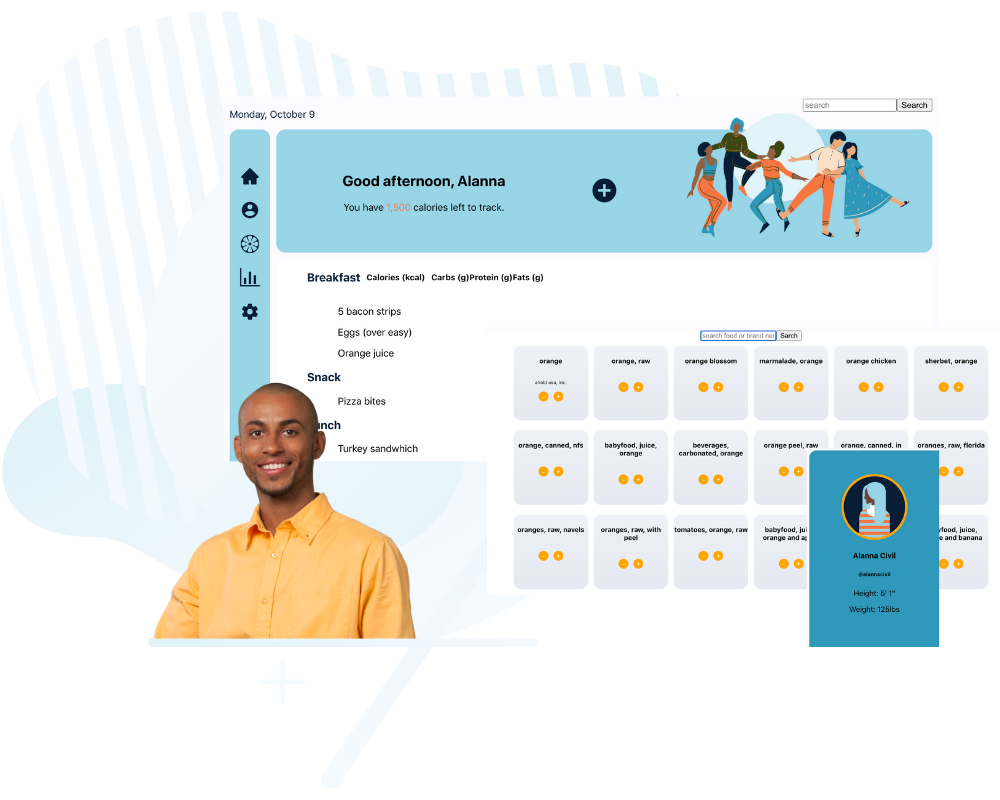
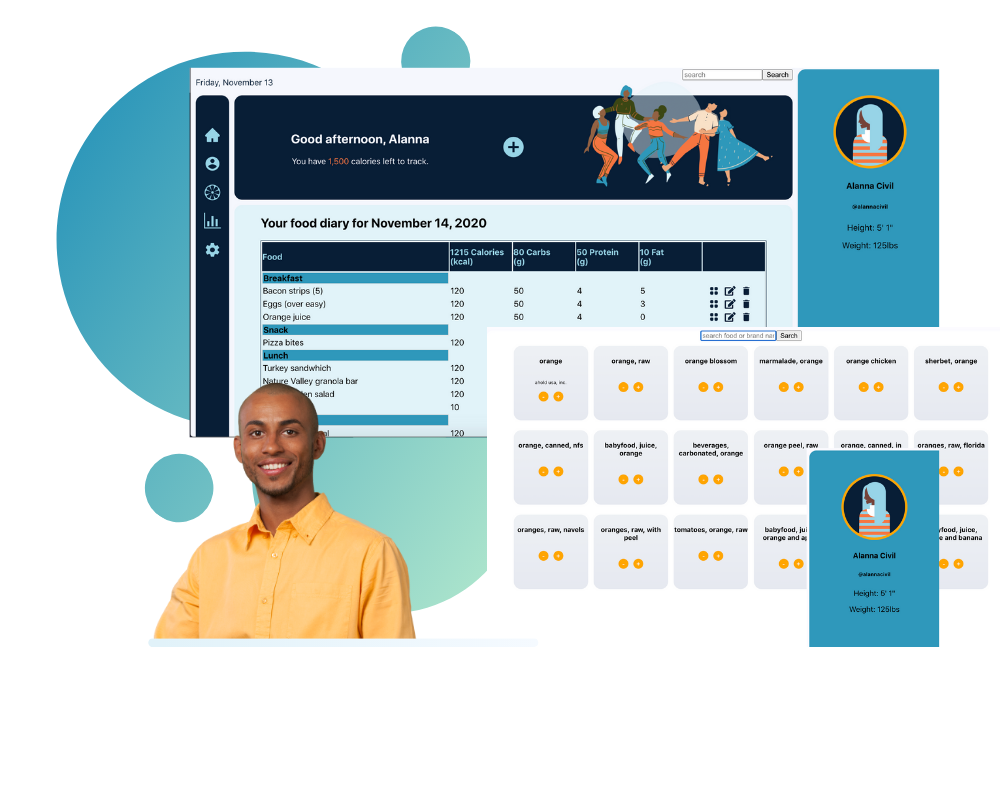
update dashboard design

diff --git a/fit-trackr/src/components/UserAccount/Dashboard.js b/fit-trackr/src/components/UserAccount/Dashboard.js
@@ -1,8 +1,10 @@
 import React from 'react';
+import { FaEdit } from 'react-icons/fa'
 import { AiFillHome } from 'react-icons/ai';
 import { IoMdSettings, IoMdAddCircle } from 'react-icons/io';
-import { MdAccountCircle } from 'react-icons/md';
+import { MdAccountCircle, MdDelete } from 'react-icons/md';
 import { GiOrange } from 'react-icons/gi';
+import { HiViewGrid } from 'react-icons/hi';
 import { GoGraph } from 'react-icons/go';
 import { Link } from "react-router-dom";
 //images
@@ -23,7 +25,7 @@ const Dashboard = () => {
      const blue = '#2F98BA';
      const darkblue = '#081E36';
      const white = '#FFFFFF';
-     const lightgray = '#FCFBFF';
+     const lightgray = '#F4F7FC';
      const gray = 'gray';
      const orange = '#F77741';
      const offwhite = '#FCFAFE';
@@ -37,6 +39,11 @@ const Dashboard = () => {
         lineHeight: '1.6rem'
      }
 
+     const editBtn = {
+        color: darkblue, 
+        width: '1.3rem',
+        paddingLeft: '10px'
+     }
      //hover link effects
      function hover() {
 
@@ -48,7 +55,7 @@ const Dashboard = () => {
             <div style={{width: '80%'}}>
                 <div className="status" style={{display: 'flex', justifyContent: 'space-between'}}>
                     <div>
-                        <p style={heading}>Monday, October 9</p>
+                        <p style={heading}>Friday, November 13</p>
                     </div>
                     <div className="search">
                         <form onSubmit={Database}>
@@ -64,41 +71,41 @@ const Dashboard = () => {
                 </div>
                 <div style={{display: 'flex'}}>
                     
-                    <div style={{width: '90px', height: '100vh', paddingTop: '50px', borderRadius: '15px', backgroundColor: skyblue}}>
+                    <div style={{width: '90px', paddingTop: '50px', borderRadius: '15px', backgroundColor: darkblue}}>
                         {/* <div style={{padding: '10px 0'}}>
                             <img src={logo} alt="logo" style={{width: '50px'}}/>
                         </div> */}
                         <div style={{padding: '10px 0'}}>
-                        <Link to='/dashboard'><AiFillHome style={{color: darkblue, width: '2rem'}} size/></Link>
+                        <Link to='/dashboard'><AiFillHome style={{color: skyblue, width: '2rem'}} size/></Link>
                         </div>
                         <div style={{padding: '10px 0'}}>
-                            <MdAccountCircle style={{color: darkblue, width: '2rem'}} size/>
+                            <MdAccountCircle style={{color: skyblue, width: '2rem'}} size/>
                         </div>
                         <div style={{padding: '10px 0'}}>
-                            <Link to='/search'><GiOrange style={{color: darkblue, width: '2rem'}} size/></Link>
+                            <Link to='/search'><GiOrange style={{color: skyblue, width: '2rem'}} size/></Link>
                         </div>
                         <div style={{padding: '10px 0'}}>
-                            <GoGraph style={{color: darkblue, width: '2rem'}} size/>
+                            <GoGraph style={{color: skyblue, width: '2rem'}} size/>
                         </div>
 
                         <div style={{padding: '10px 0'}}>
-                            <IoMdSettings style={{color: darkblue, width: '2rem'}} size/>
+                            <IoMdSettings style={{color: skyblue, width: '2rem'}} size/>
                         </div>
                         
                     </div>
 
 
                     <div>
-                        <div className="welcome" style={{display: 'flex', backgroundColor: skyblue, marginLeft: '10px', borderRadius: '15px', height: '200px', width: '1068px'}}>
+                        <div className="welcome" style={{display: 'flex', backgroundColor: darkblue, marginLeft: '10px', borderRadius: '15px', height: '200px', width: '1068px'}}>
                             <div style={{width: '45%', display: 'grid', placeItems: 'center'}}>
                                 <div>
-                                    <h2>Good afternoon, Alanna</h2>
-                                    <p>You have <span style={{color: orange}}>1,500</span> calories left to track.</p>
+                                    <h2 style={{color: lightgray}}>Good afternoon, Alanna</h2>
+                                    <p style={{color: lightgray}}>You have <span style={{color: orange}}>1,500</span> calories left to track.</p>
                                 </div> 
                             </div>
                             <div style={{width: '10%', display: 'grid', placeItems: 'center'}}>
                                 <div>
-                                    <IoMdAddCircle style={{color: darkblue, width: '3rem'}} size/>
+                                    <IoMdAddCircle style={{color: skyblue, width: '3rem'}} size/>
                                     {/* <p>Add Meal</p> */}
                                 </div>
                                 
@@ -107,80 +114,188 @@ const Dashboard = () => {
                                 <img src={hero} alt='' style={{width: '450px', fontWeight: '900', position: 'relative', top: '-50px'}}/>
                             </div>
                         </div>
-                        <div style={{display: 'flex', backgroundColor: white, marginLeft: '10px', marginTop: '10px', borderRadius: '15px', height: '80vh', width: '1068px'}}>
-                            <div style={{textAlign: 'left', padding: '0 50px'}}>
-                                {/* <div className="tg-wrap">
-                                    <table className="tg" style={{display: 'flex'}}>
-                                        <thead>
-                                            <tr>
-                                                <th className="tg-ul38">Pizza bites</th>
-                                            </tr>
-                                        </thead>
-                                        <thead>Calories (kcal)
-                                            <tr>
-                                                <th className="tg-ul38">123</th>
-                                            </tr>
-                                        </thead>
-                                        <thead>Carbs (g)
-                                            <tr>
-                                                <th className="tg-ul38">123</th>
-                                            </tr>
-                                        </thead>
-                                        <thead>Protein(g)
-                                            <tr>
-                                                <th className="tg-ul38">123</th>
-                                            </tr>
-                                        </thead>
-                                        <thead>Fat(g)
-                                            <tr>
-                                                <th className="tg-ul38">123</th>
-                                            </tr>
-                                        </thead>
+                        <div style={{display: 'flex', backgroundColor: lightblue, marginLeft: '10px', marginTop: '10px', borderRadius: '15px', maxWidth: '1068px'}}>
+                            <div style={{textAlign: 'left', padding: '0 50px', width: '100%'}}>
+                                
+                                <div>
+                                    <h2>Your food diary for November 14, 2020</h2>
+                                    <table className="table" style={{border: '1px solid #081E36'}}>
+                                    <tbody style={{width: '100%' }}>
+                                            <tr style={{backgroundColor: darkblue}}>
+                                                <th style={{width: '30%', color: skyblue, padding: '10px 0'}}>Food</th>
+                                                <th style={{width: '10%', color: skyblue, padding: '10px 0'}}>1215 Calories<br/>(kcal)</th>
+                                                <th style={{width: '10%', color: skyblue, padding: '10px 0'}}>80 Carbs<br/>(g)</th>
+                                                <th style={{width: '10%', color: skyblue, padding: '10px 0'}}>50 Protein<br/>(g)</th>
+                                                <th style={{width: '10%', color: skyblue, padding: '10px 0'}}>10 Fat<br/>(g)</th>
+                                                <th style={{width: '10%', color: skyblue, padding: '10px 0'}}></th>
+                                            </tr>                                        
+                                        <tr>
+                                            <th style={{backgroundColor: blue, position: 'sticky', border: '1px solid #ddd'}}>Breakfast</th>
+                                        </tr>
+                                        <tr>
+                                            <td>Bacon strips (5)</td>
+                                            <td>120</td>
+                                            <td>50</td>
+                                            <td>4</td>
+                                            <td>5</td>
+                                            <td style={{display: 'flex'}}>
+                                                <HiViewGrid style={editBtn} size/>
+                                                <FaEdit style={editBtn} size/>
+                                                <MdDelete style={editBtn} size/>
+                                            </td>
+                                            
+                                        </tr>
+                                        <tr>
+                                            <td>Eggs (over easy)</td>
+                                            <td>120</td>
+                                            <td>50</td>
+                                            <td>4</td>
+                                            <td>3</td>
+                                            <td style={{display: 'flex'}}>
+                                                <HiViewGrid style={editBtn} size/>
+                                                <FaEdit style={editBtn} size/>
+                                                <MdDelete style={editBtn} size/>
+                                            </td>
+                                        </tr>
+                                        <tr>
+                                            <td>Orange juice</td>
+                                            <td>120</td>
+                                            <td>50</td>
+                                            <td>4</td>
+                                            <td>0</td>
+                                            <td style={{display: 'flex'}}>
+                                                <HiViewGrid style={editBtn} size/>
+                                                <FaEdit style={editBtn} size/>
+                                                <MdDelete style={editBtn} size/>
+                                            </td>
+                                        </tr>
+
+                                        <tr>
+                                            <th style={{backgroundColor: blue, border: '1px solid #ddd'}}>Snack</th>
+                                        </tr>
+                                        <tr>
+                                            <td>Pizza bites</td>
+                                            <td>120</td>
+                                            <td>50</td>
+                                            <td>4</td>
+                                            <td>0</td>
+                                            <td style={{display: 'flex'}}>
+                                                <HiViewGrid style={editBtn} size/>
+                                                <FaEdit style={editBtn} size/>
+                                                <MdDelete style={editBtn} size/>
+                                            </td>
+                                        </tr>
+                                        <tr>
+                                            <th style={{backgroundColor: blue, border: '1px solid #ddd'}}>Lunch</th>
+                                        </tr>
+                                        <tr>
+                                            <td>Turkey sandwhich</td>
+                                            <td>120</td>
+                                            <td>50</td>
+                                            <td>4</td>
+                                            <td>2</td>
+                                            <td style={{display: 'flex'}}>
+                                                <HiViewGrid style={editBtn} size/>
+                                                <FaEdit style={editBtn} size/>
+                                                <MdDelete style={editBtn} size/>
+                                            </td>
+                                        </tr>
+                                        <tr>
+                                            <td>Nature Valley granola bar</td>
+                                            <td>120</td>
+                                            <td>50</td>
+                                            <td>4</td>
+                                            <td>2</td>
+                                            <td style={{display: 'flex'}}>
+                                                <HiViewGrid style={editBtn} size/>
+                                                <FaEdit style={editBtn} size/>
+                                                <MdDelete style={editBtn} size/>
+                                            </td>
+                                        </tr>
+                                        <tr>
+                                            <td>Small garden salad</td>
+                                            <td>120</td>
+                                            <td>50</td>
+                                            <td>4</td>
+                                            <td>2</td>
+                                            <td style={{display: 'flex'}}>
+                                                <HiViewGrid style={editBtn} size/>
+                                                <FaEdit style={editBtn} size/>
+                                                <MdDelete style={editBtn} size/>
+                                            </td>
+                                        </tr>
+                                        <tr>
+                                            <td>Gatorade</td>
+                                            <td>10</td>
+                                            <td>0</td>
+                                            <td>0</td>
+                                            <td>0</td>
+                                            <td style={{display: 'flex'}}>
+                                                <HiViewGrid style={editBtn} size/>
+                                                <FaEdit style={editBtn} size/>
+                                                <MdDelete style={editBtn} size/>
+                                            </td>
+                                        </tr>
+                                        <tr>
+                                            <th style={{backgroundColor: blue, border: '1px solid #ddd'}}>Snack</th>
+                                        </tr>
+                                        <tr>
+                                            <td>Sunchips Original</td>
+                                            <td>120</td>
+                                            <td>50</td>
+                                            <td>4</td>
+                                            <td>0</td>
+                                            <HiViewGrid style={editBtn} size/>
+                                            <FaEdit style={editBtn} size/>
+                                            <MdDelete style={editBtn} size/>
+                                        </tr>
+                                        <tr>
+                                            <th style={{backgroundColor: blue, border: '1px solid #ddd'}}>Dinner</th>
+                                        </tr>
+                                        <tr>
+                                            <td>Steak (3oz)</td>
+                                            <td>120</td>
+                                            <td>50</td>
+                                            <td>24</td>
+                                            <td>3</td>
+                                            <HiViewGrid style={editBtn} size/>
+                                            <FaEdit style={editBtn} size/>
+                                            <MdDelete style={editBtn} size/>
+                                        </tr>
+                                        <tr>
+                                            <td>Asparagus</td>
+                                            <td>120</td>
+                                            <td>50</td>
+                                            <td>4</td>
+                                            <td>0</td>
+                                            <HiViewGrid style={editBtn} size/>
+                                            <FaEdit style={editBtn} size/>
+                                            <MdDelete style={editBtn} size/>
+                                        </tr>
+                                        <tr>
+                                            <td>Loaded potatoes</td>
+                                            <td>120</td>
+                                            <td>50</td>
+                                            <td>4</td>
+                                            <td>2</td>
+                                            <HiViewGrid style={editBtn} size/>
+                                            <FaEdit style={editBtn} size/>
+                                            <MdDelete style={editBtn} size/>
+                                        </tr>
+                                        <tr>
+                                            <td>Cranberry juice</td>
+                                            <td>120</td>
+                                            <td>20</td>
+                                            <td>0</td>
+                                            <td>0</td>
+                                            <HiViewGrid style={editBtn} size/>
+                                            <FaEdit style={editBtn} size/>
+                                            <MdDelete style={editBtn} size/>
+                                        </tr>
+                                        
+                                        
+                                    </tbody>
                                     </table>
-                                </div> */}
-                                <div>
-                                    <div style={{display: 'flex', justifyContent:'space-around', backgroundColor:''}}>
-                                        <h3 style={{color: darkblue}}>Breakfast</h3>
-                                        <h5 style={{padding: '0 10px'}}>Calories (kcal)</h5>
-                                        <h5>Carbs (g)</h5>
-                                        <h5>Protein (g)</h5>
-                                        <h5>Fats (g)</h5>
-                                    </div>
-                                    <div style={{padding: '0 0 0 50px'}}>
-                                        <p>5 bacon strips</p>
-                                        <p>Eggs (over easy)</p>
-                                        <p>Orange juice</p>
-                                    </div>
-                                </div>
-                                <div>
-                                    <h3 style={{color: darkblue}}>Snack</h3>
-                                    <div style={{padding: '0 0 0 50px'}}>
-                                        <p>Pizza bites</p>
-                                    </div>
-                                </div>
-                                <div>
-                                    <h3 style={{color: darkblue}}>Lunch</h3>
-                                    <div style={{padding: '0 0 0 50px'}}>
-                                        <p>Turkey sandwhich</p>
-                                        <p>Nature Valley granola bar</p>
-                                        <p>Small garden salad</p>
-                                        <p>Gatorade</p>
-                                    </div>
-                                </div>
-                                <div>
-                                    <h3 style={{color: darkblue}}>Snack</h3>
-                                    <div style={{padding: '0 0 0 50px'}}>
-                                        <p>Sunships Original</p>
-                                    </div>
-                                </div>
-                                <div>
-                                    <h5>Dinner</h5>
-                                    <div style={{padding: '0 0 0 50px'}}>
-                                        <p>3oz steak</p>
-                                        <p>Asparagus</p>
-                                        <p>loaded potatoes</p>
-                                        <p>Cranberry juice</p>
-                                    </div>
                                 </div>
                             </div>
                         </div>
@@ -190,7 +305,7 @@ const Dashboard = () => {
                 </div>
             </div>
 
-            <div style={{width: '20%', height: '100vh', paddingTop: '50px', marginLeft: '10px', borderRadius: '15px 0 0 15px', backgroundColor: blue}}>
+            <div style={{width: '20%', paddingTop: '50px', marginLeft: '10px', borderRadius: '15px 0 0 15px', backgroundColor: blue}}>
                 <img src={defautlImage} alt="profile image" style={{width: '130px', borderRadius: '50%', border: '5px solid orange'}}/>
                 <h4>Alanna Civil</h4>
                 <h6>@alannacivil</h6>
